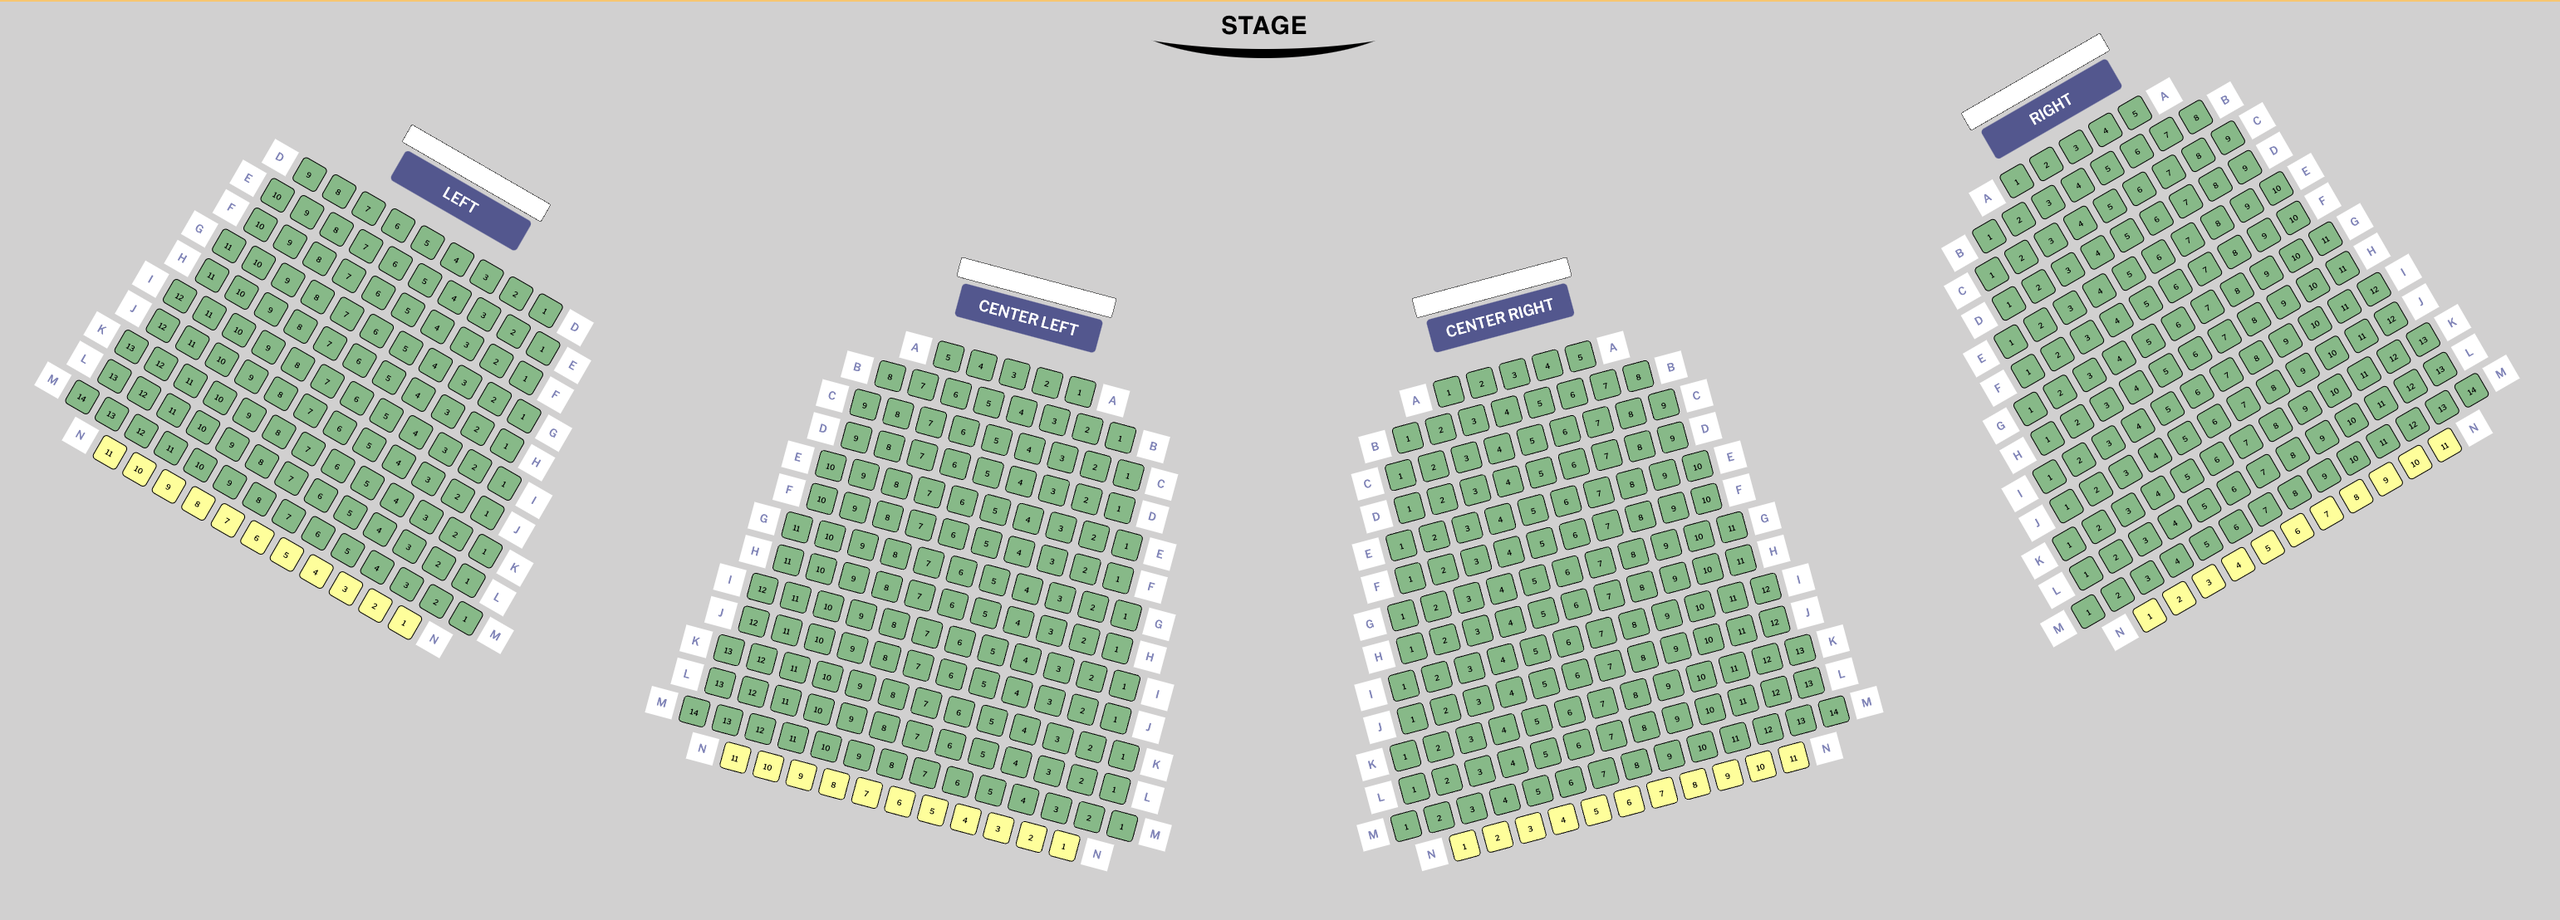
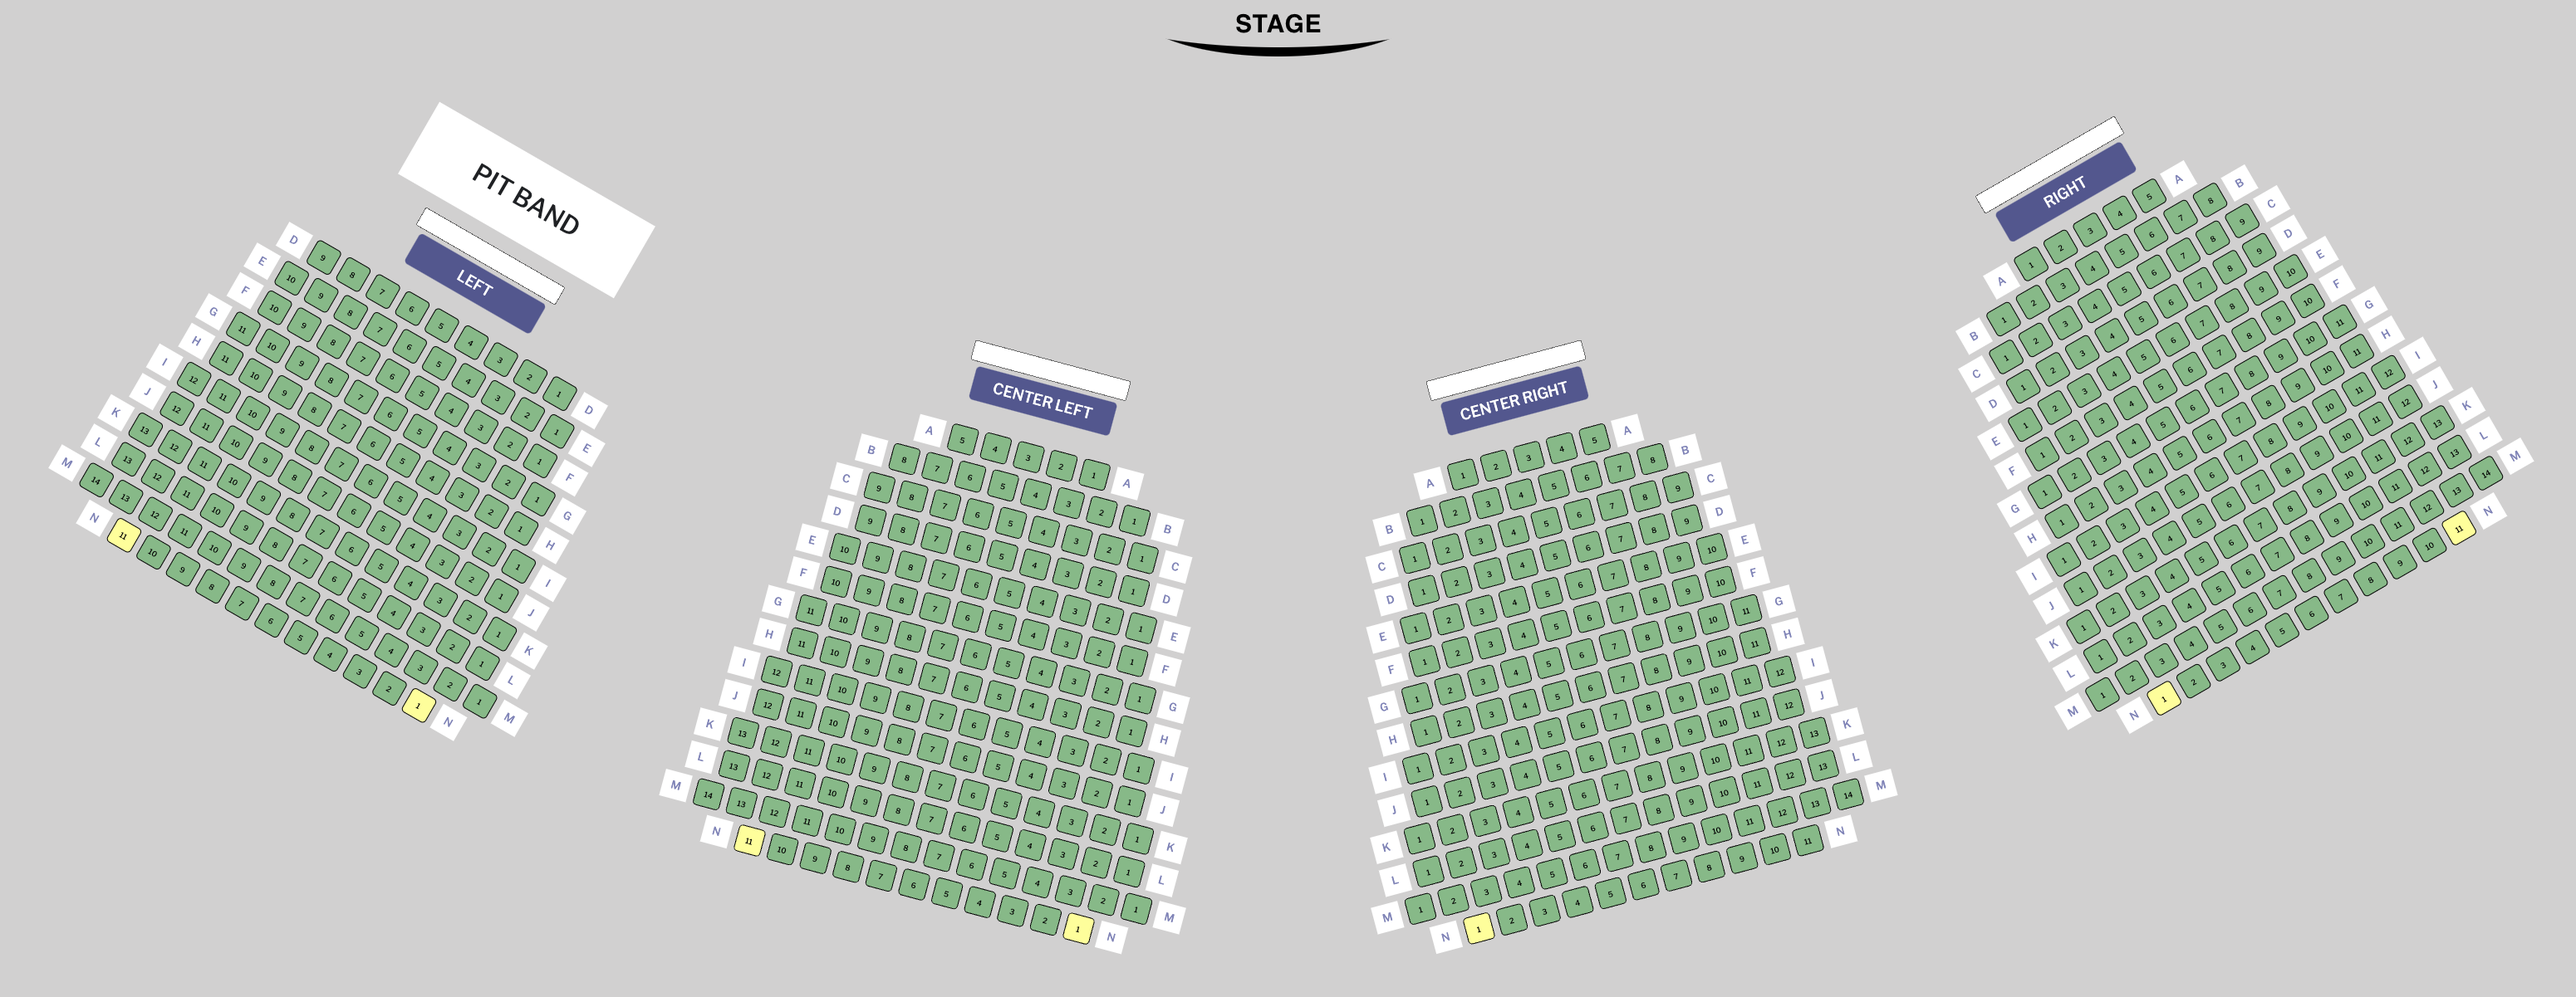
updates

diff --git a/Completed/38459.html b/Completed/38459.html
@@ -17,6 +17,40 @@
   <tr>
     <td>
       <div align="center" style="position: relative; z-index: 0">
+        <table align="center">
+          <tr>
+            <td>
+              <div
+                class="adjust rotate30R"
+                align="center"
+                style="
+                  position: relative;
+                  z-index: 0;
+                  top: 110px;
+                  right: 905px;
+                  height: 100px;
+                  width: 300px;
+                  background-color: white;
+                  margin: auto;
+                  text-align: center;
+                  display: flex;
+                  justify-content: center;
+                  align-items: center;
+                  font-size: 30px;
+                "
+              >
+                PIT BAND
+              </div>
+            </td>
+          </tr>
+        </table>
+      </div>
+    </td>
+  </tr>
+
+  <tr>
+    <td>
+      <div align="center" style="position: relative; z-index: 0">
         <img
           src="https://s3.amazonaws.com/prdv2-dt-client/seating_images/pixel.png"
           width="1"
